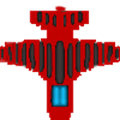
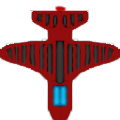
Make new opponent images and make few improvements

Changed region(s): [[0.0, 0.075, 1.0, 1.0]]

diff --git a/src/main/java/Client/Game/Game.java b/src/main/java/Client/Game/Game.java
@@ -123,6 +123,13 @@ public class Game {
                                 case GameDataObject.PLAYER_2 -> state = LOSE;
                             }
                             mouseHandler.clicked = false;
+                            try {
+                                gameDataObjectFromServer = socketClient.sendAndReceiveGame(gameDataObjectFromServer);
+                            } catch (IOException | ClassNotFoundException e) {
+                                System.out.println("Lost connection");
+                                state = CONNECTING;
+                            }
+                            checkGameWinner();
                         }
                     } else { // 2
                         localPlayer.setHp(gameDataObjectFromServer.getPlayer2HP());
@@ -141,6 +148,13 @@ public class Game {
                                 case GameDataObject.PLAYER_2 -> state = WIN;
                             }
                             mouseHandler.clicked = false;
+                            try {
+                                gameDataObjectFromServer = socketClient.sendAndReceiveGame(gameDataObjectFromServer);
+                            } catch (IOException | ClassNotFoundException e) {
+                                System.out.println("Lost connection");
+                                state = CONNECTING;
+                            }
+                            checkGameWinner();
                         }
                     }
                 }

diff --git a/src/main/java/Client/Players/HpBar.java b/src/main/java/Client/Players/HpBar.java
@@ -13,6 +13,7 @@ public class HpBar {
     private final int BORDER_SIZE = 5;
 
     private int hp;
+    private final int HP_DIV = 2;
 
     private final Font font = new Font("FreeSans", Font.BOLD, FONT_SIZE);
     private final String TEXT;
@@ -22,7 +23,7 @@ public class HpBar {
         Y = y;
         FONT_Y = y - FONT_SIZE / 3;
         this.hp = hp;
-        WIDTH = hp + 2 * BORDER_SIZE;
+        WIDTH = hp / HP_DIV + 2 * BORDER_SIZE;
         HEIGHT = 20;
         TEXT = text;
     }
@@ -44,6 +45,6 @@ public class HpBar {
         g2.setColor(Color.red);
         g2.fillRect(X + BORDER_SIZE, Y + BORDER_SIZE, WIDTH - 2 * BORDER_SIZE, HEIGHT - 2 * BORDER_SIZE);
         g2.setColor(Color.green);
-        g2.fillRect(X + BORDER_SIZE, Y + BORDER_SIZE, hp, HEIGHT - 2 * BORDER_SIZE);
+        g2.fillRect(X + BORDER_SIZE, Y + BORDER_SIZE, hp / HP_DIV, HEIGHT - 2 * BORDER_SIZE);
     }
 }

diff --git a/src/main/java/Client/Game/HitsAndBoomAnimationController.java b/src/main/java/Client/Game/HitsAndBoomAnimationController.java
@@ -36,10 +36,10 @@ public class HitsAndBoomAnimationController {
 
         private void drawBoomAnimation(Graphics2D g2) {
             boomAnimationCounter++;
-            if (boomAnimationCounter >= 116) {
+            if (boomAnimationCounter >= 58) {
                 isBoom = false;
             }
-            g2.drawImage(boomImages[boomAnimationCounter / 12], pos.x, pos.y, null);
+            g2.drawImage(boomImages[boomAnimationCounter / 6], pos.x, pos.y, null);
         }
     }
     public void startBoomAnimation(Point lastPosition) {

diff --git a/src/main/java/Client/Players/Player.java b/src/main/java/Client/Players/Player.java
@@ -20,7 +20,7 @@ public class Player {
     final int SPEED = 6;
 
     HpBar hpBar;
-    int hp = 200;
+    int hp = 600;
 
     final int NUM_OF_IMAGES = 11;
     BufferedImage[] images = new BufferedImage[NUM_OF_IMAGES];
@@ -33,7 +33,7 @@ public class Player {
     public Player() {
         name = "OPPONENT";
         pos = new Point(-100, -100);
-        hpBar = new HpBar(20, 25, hp, name);
+        hpBar = new HpBar(5, 25, hp, name);
         loadAllImages("red_enemy/enemy1_");
     }
 

diff --git a/src/main/java/Client/Players/LocalPlayer.java b/src/main/java/Client/Players/LocalPlayer.java
@@ -11,8 +11,8 @@ public class LocalPlayer extends Player{
     public LocalPlayer(KeyHandler kH) {
         keyHandler = kH;
         name = "PLAYER";
-        pos = new Point(400, 600);
-        hpBar = new HpBar(20, 720, hp, name);
+        pos = new Point(440, 600);
+        hpBar = new HpBar(5, 720, hp, name);
         loadAllImages("player/player_");
     }
 

diff --git a/src/main/java/Client/Players/Bullet.java b/src/main/java/Client/Players/Bullet.java
@@ -94,6 +94,7 @@ public class Bullet implements Serializable {
     public int getHeight() {
         return height;
     }
+
     public double getHitDrawScale() {
         return hitDrawScale;
     }
